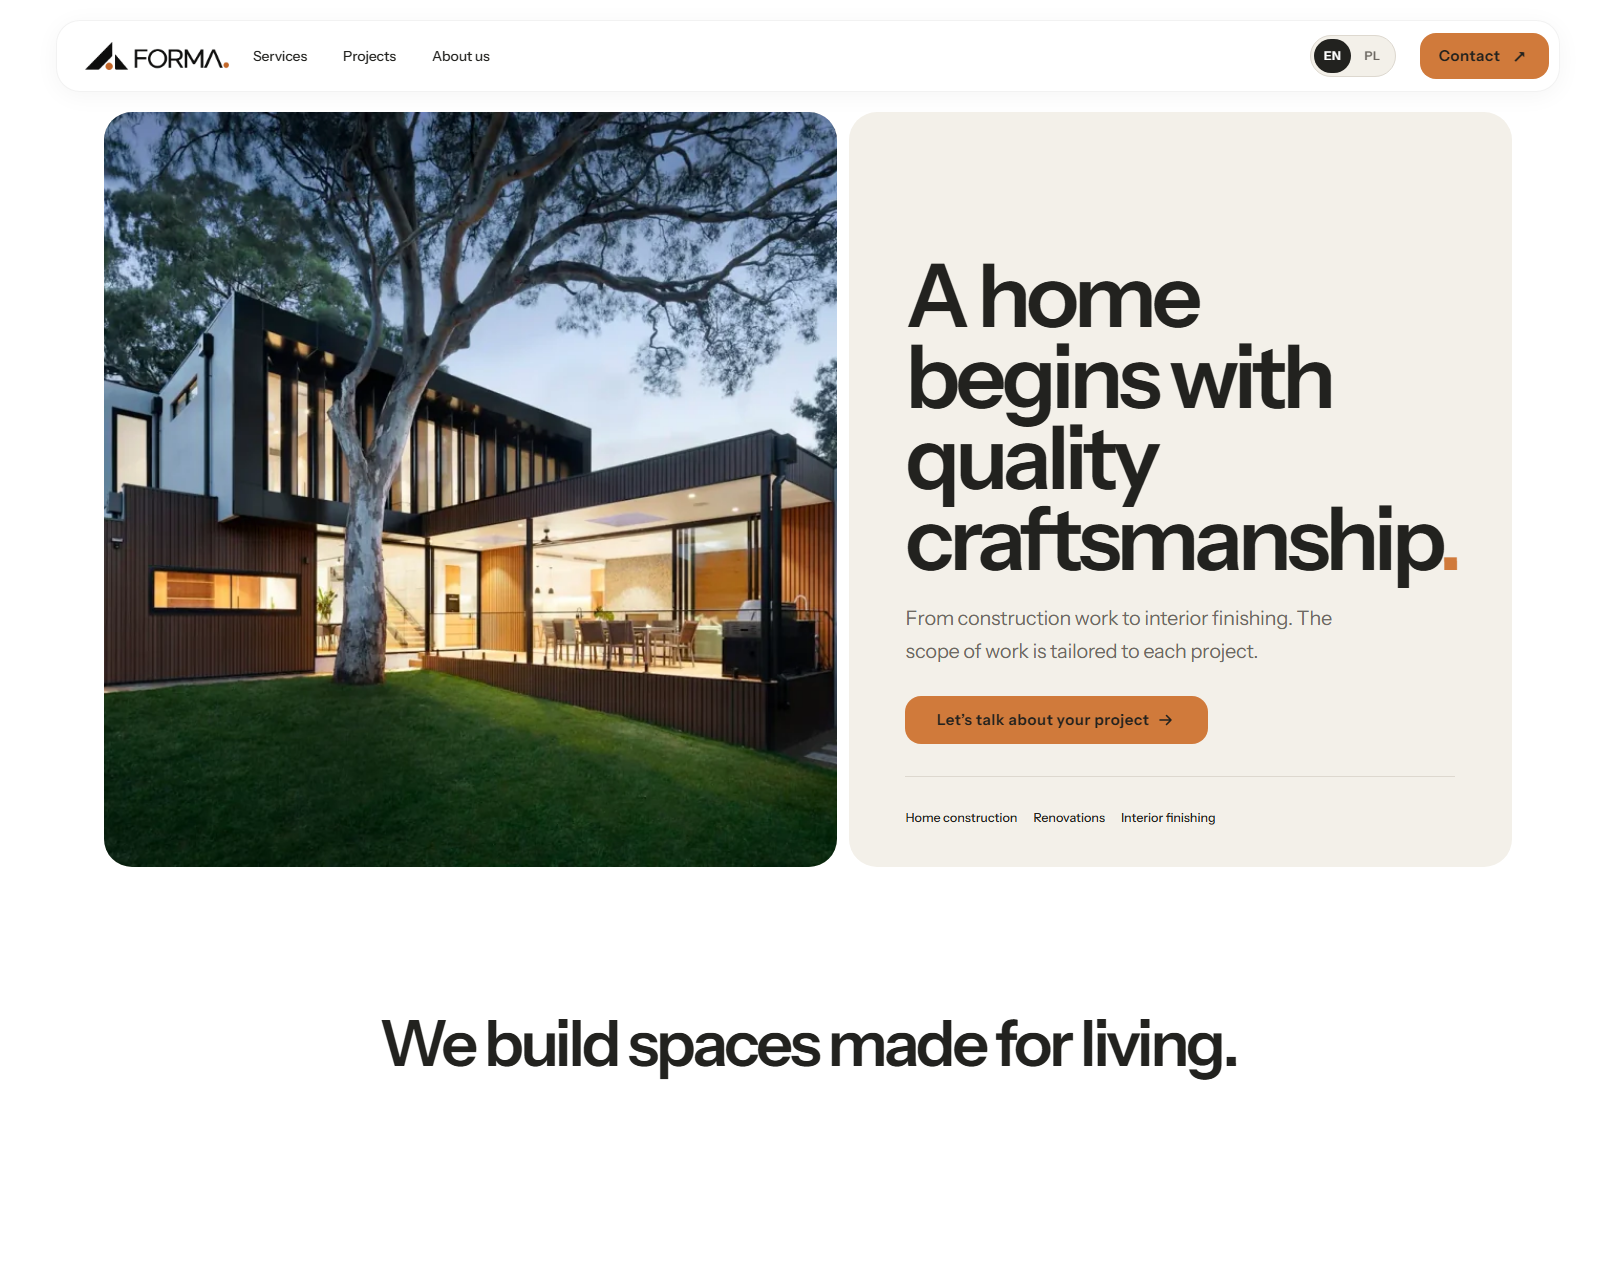
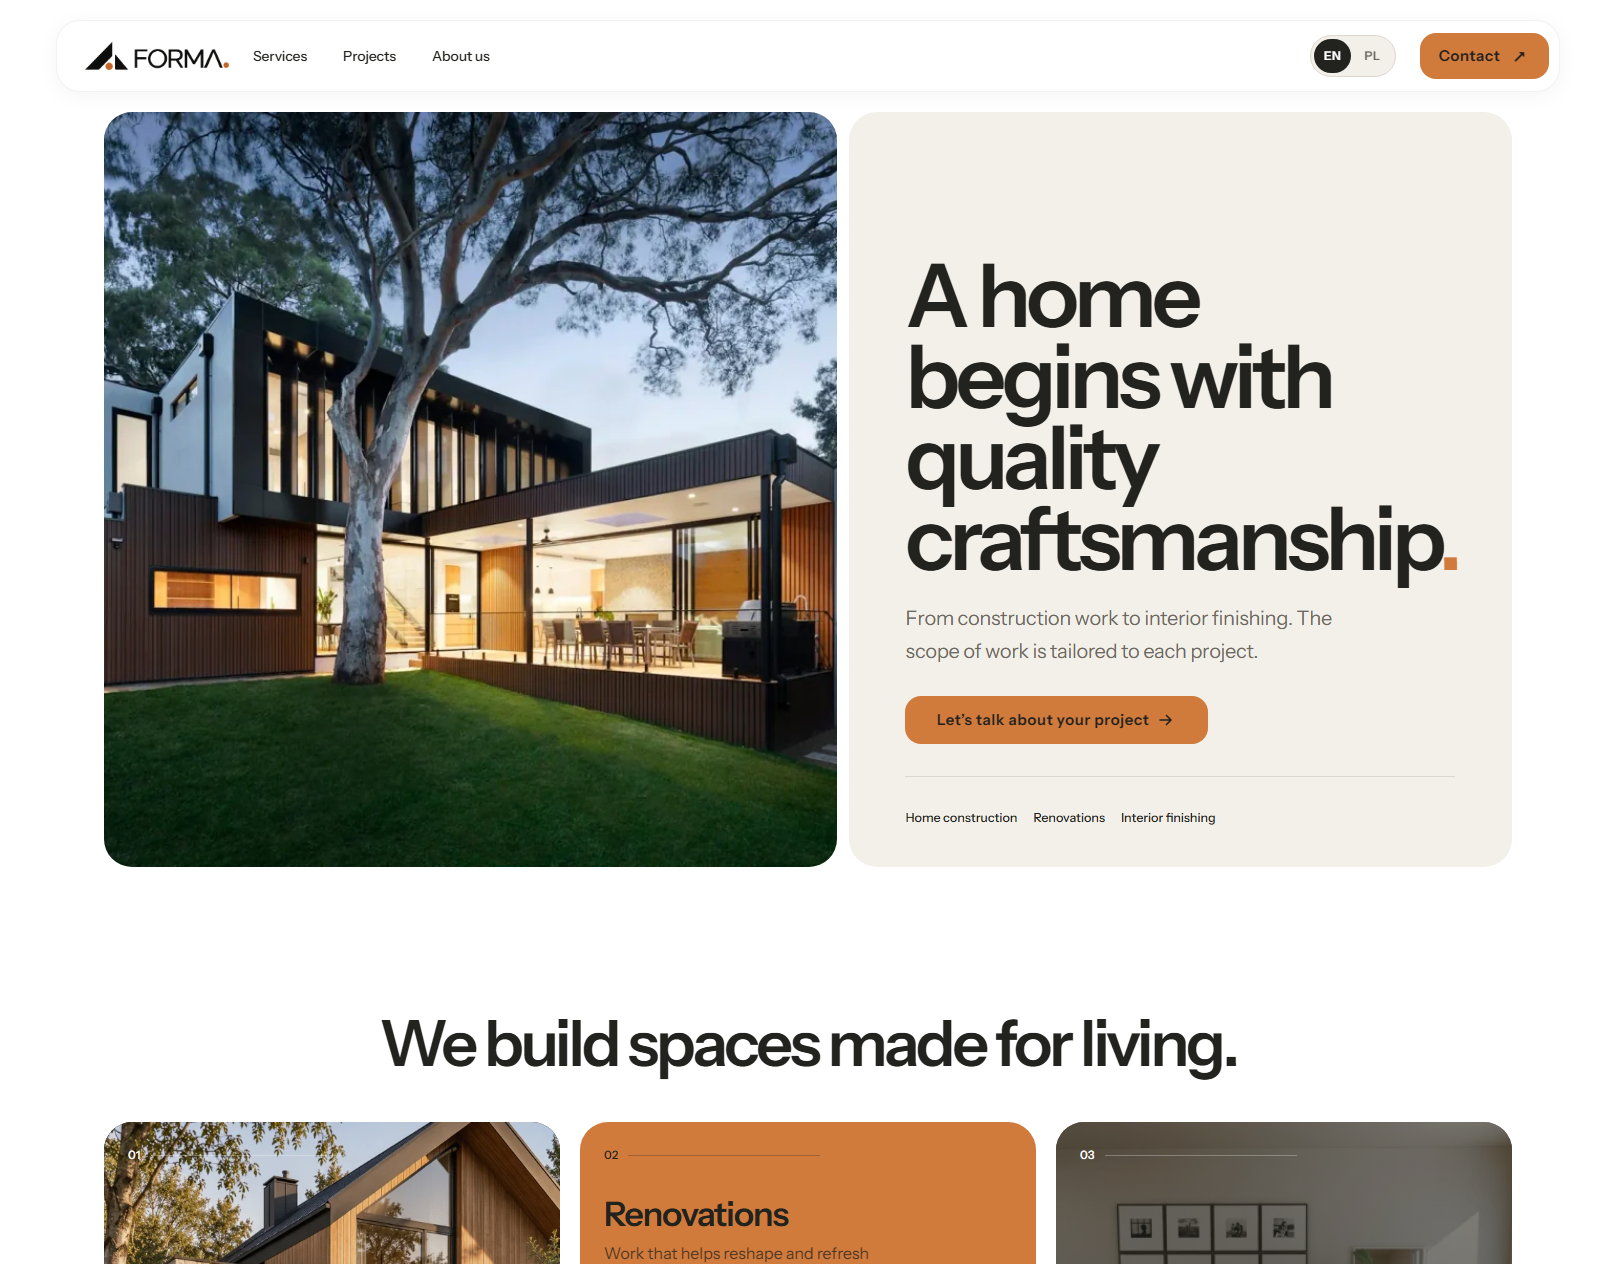
projekt: docs(behance), teksty i zrzuty Nova i Forma, zrzuty bez paska WebScale

Changed region(s): [[0.0619, 0.8639, 0.9592, 1.0]]

diff --git a/templates/forma/copy/behance.md b/templates/forma/copy/behance.md
@@ -1,0 +1,22 @@
+Title: Forma, Construction and Renovation Website
+
+Description:
+Forma is a website design for construction and renovation companies that want visitors to see finished spaces first. The first screen pairs a large project photo with a clear headline and a direct call to discuss the work, followed by service cards for home construction, renovations and interior finishing.
+
+A four-step process section explains the path from the first conversation to handover, and an FAQ covers estimates, materials and scheduling. Light surfaces, graphite typography and an amber accent give the page a calm, architectural character.
+
+The layout is designed for desktop, tablet and mobile screens. The website has Polish and English versions.
+
+Photos were created with the help of AI image tools and edited for the layout.
+
+Creative Fields: Web Design, UI/UX
+
+Tags: construction, renovation, interior finishing, home building, web design, ui design, website, astro, tailwind
+
+Tools: Astro, Tailwind CSS
+
+Blocks:
+1. behance-1616x1264.png (cover)
+2. dribbble-screen-01-1600x1200.png
+3. dribbble-screen-02-1600x1200.png
+4. dribbble-screen-03-1600x1200.png

diff --git a/templates/nova/copy/behance.md b/templates/nova/copy/behance.md
@@ -1,0 +1,22 @@
+Title: Nova, Creative Agency Website
+
+Description:
+Nova is a website design for creative and marketing agencies that want their work and their people to carry the first impression. Editorial typography and a large, organic image shape on the first screen set a confident tone, followed by a logo strip and key numbers that show experience at a glance.
+
+A selected work section leads with large project images, then a services overview, a team section and an FAQ answer the questions clients ask before a first call. Warm off-white surfaces, deep black blocks and a soft bronze accent give the page a calm, premium character.
+
+The layout is designed for desktop, tablet and mobile screens. The website has Polish and English versions.
+
+Photos were created with the help of AI image tools and edited for the layout.
+
+Creative Fields: Web Design, UI/UX
+
+Tags: creative agency, marketing agency, design studio, web design, ui design, website, astro, tailwind
+
+Tools: Astro, Tailwind CSS
+
+Blocks:
+1. behance-1616x1264.png (cover)
+2. dribbble-screen-01-1600x1200.png
+3. dribbble-screen-02-1600x1200.png
+4. dribbble-screen-03-1600x1200.png
